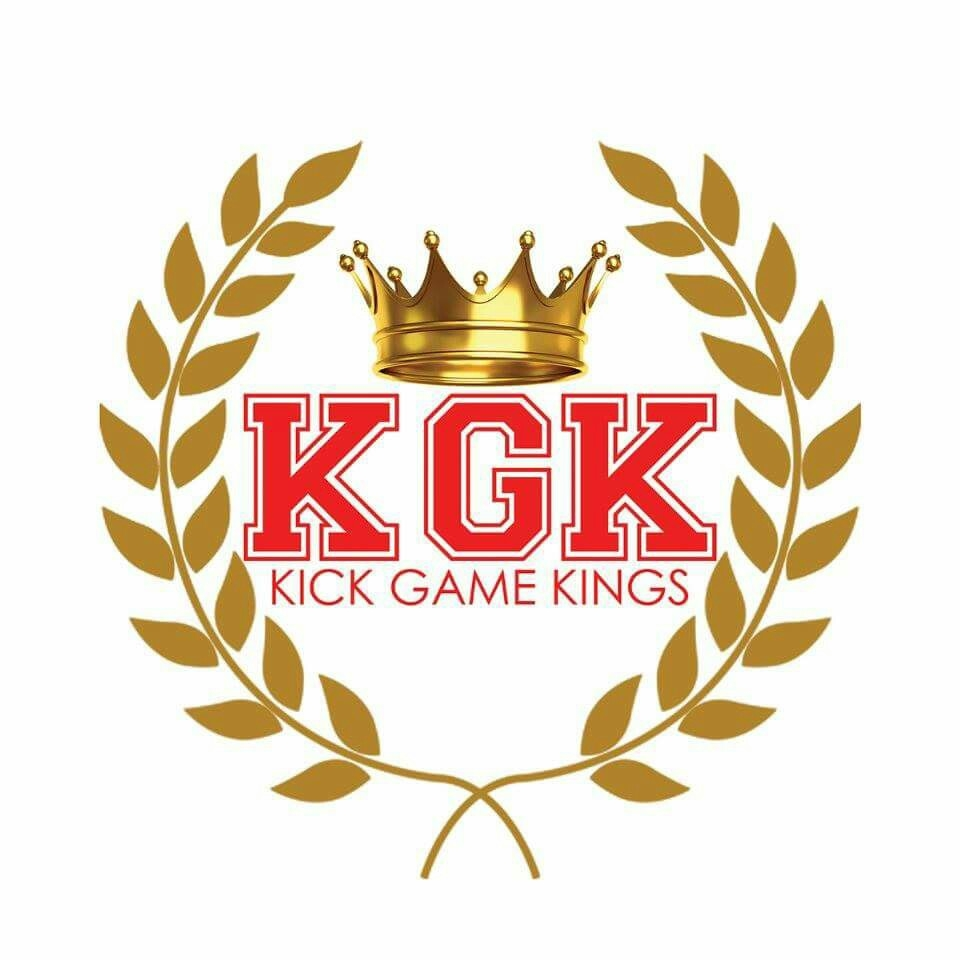
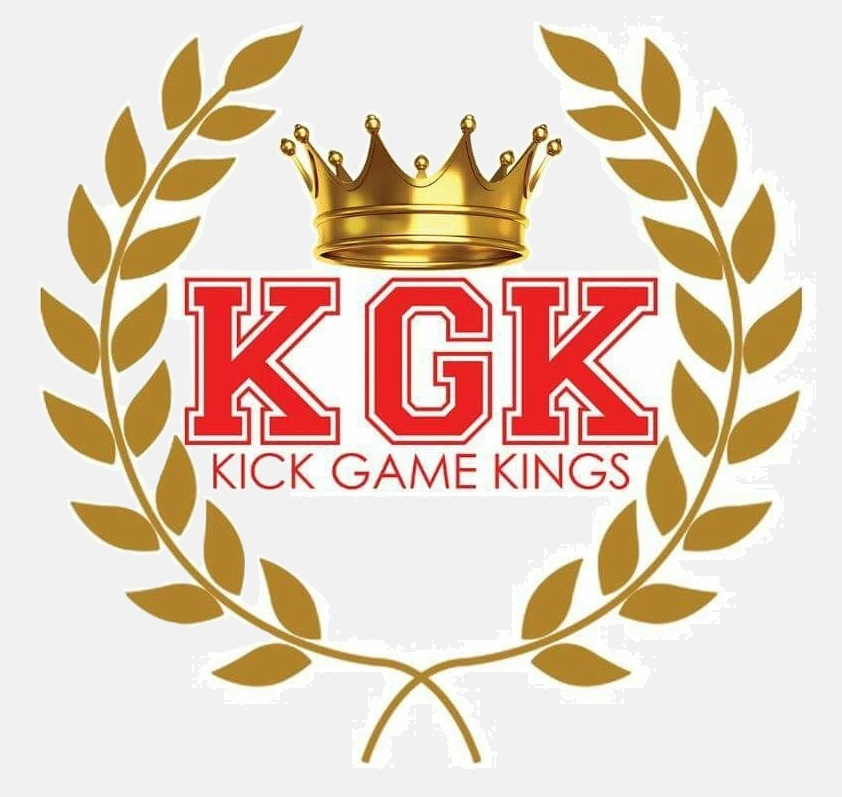
rac - playing with front page

diff --git a/KGKv2/src/index.html b/KGKv2/src/index.html
@@ -75,21 +75,26 @@
 
 
 <!-- main content -->
-<div class="w3-container textarea w3-tag w3-red w3-wide w3-navbar">
-    <h4> Welcome to <B>KickGameKings.com</B>: the premier shoe vendor in Louisville! </h4>
+<div class="w3-container textarea w3-tag w3-light-grey w3-wide">
+    <table>
+        <td><img style="width:100%;" src="img/KGKcrown.jpg"> </td>
+    <td><h4 class="mobile-hide"> Welcome to <B>KickGameKings.com</B>: the premier shoe vendor in Louisville! </h4></td>
+      <td><img style="width:100%;" src="img/KGKcrown.jpg"> </td>
+    </table>
 </div>
 
 <div class="w3-container textarea w3-wide">
     <div class="w3-left"><i>MAY 28th, 2016: </i></div><div class="w3-right"><button class="w3-red w3-round" id="post2btn" onclick="viewtoggle('post2','post2btn')">hide post</button></div>
     <div id="post2" class="w3-container" style="display: block">
         <br/>
-        KICK GAME KINGS IS IN THE BUILDING AGAIN!
+        <br/>
+        KICK GAME KINGS IS IN THE BUILDING AGAIN! @:
         <br/>
         <a href="http://www.htowngotsole.com/">H-TOWN GOT SOLE!</a>
         <p>Golden Gate Banquet Hall</p>
         <p>1960 Road West</p>
         <p>Houston, TX 77069</p>
-        <img class="gallery_image" src="img/getSole.jpg">
+        <a href="http://www.htowngotsole.com/"><img class="gallery_image" src="img/getSole.jpg"></a>
         <p>If you're in the Houston, TX area, come in and see us. If you appreciate quality style and rare kicks, you don't want to miss our table at this show!</p>
     </div>
 </div>
@@ -97,6 +102,7 @@
 <div class="w3-container textarea w3-wide">
     <div class="w3-left"><i>MAY 21st, 2016: </i></div><div class="w3-right"><button class="w3-red w3-round" id="post1btn" onclick="viewtoggle('post1','post1btn')">show post</button></div>
     <div id="post1" class="w3-container" style="display: none">
+        <br/>
         <br/>
         KICK GAME KINGS IS IN THE BUILDING!
         <br/>

diff --git a/KGKv2/dist/index.html b/KGKv2/dist/index.html
@@ -75,21 +75,22 @@
 
 
 <!-- main content -->
-<div class="w3-container textarea w3-tag w3-red w3-wide w3-navbar">
-    <h4> Welcome to <B>KickGameKings.com</B>: the premier shoe vendor in Louisville! </h4>
+<div class="w3-container textarea w3-tag w3-light-grey w3-wide">
+    <h4 class="mobile-hide"> Welcome to <B>KickGameKings.com</B>: the premier shoe vendor in Louisville! </h4>
 </div>
 
 <div class="w3-container textarea w3-wide">
     <div class="w3-left"><i>MAY 28th, 2016: </i></div><div class="w3-right"><button class="w3-red w3-round" id="post2btn" onclick="viewtoggle('post2','post2btn')">hide post</button></div>
     <div id="post2" class="w3-container" style="display: block">
         <br/>
-        KICK GAME KINGS IS IN THE BUILDING AGAIN!
+        <br/>
+        KICK GAME KINGS IS IN THE BUILDING AGAIN! @:
         <br/>
         <a href="http://www.htowngotsole.com/">H-TOWN GOT SOLE!</a>
         <p>Golden Gate Banquet Hall</p>
         <p>1960 Road West</p>
         <p>Houston, TX 77069</p>
-        <img class="gallery_image" src="img/getSole.jpg">
+        <a href="http://www.htowngotsole.com/"><img class="gallery_image" src="img/getSole.jpg"></a>
         <p>If you're in the Houston, TX area, come in and see us. If you appreciate quality style and rare kicks, you don't want to miss our table at this show!</p>
     </div>
 </div>
@@ -97,6 +98,7 @@
 <div class="w3-container textarea w3-wide">
     <div class="w3-left"><i>MAY 21st, 2016: </i></div><div class="w3-right"><button class="w3-red w3-round" id="post1btn" onclick="viewtoggle('post1','post1btn')">show post</button></div>
     <div id="post1" class="w3-container" style="display: none">
+        <br/>
         <br/>
         KICK GAME KINGS IS IN THE BUILDING!
         <br/>

diff --git a/KGKv2/dist/contact.html b/KGKv2/dist/contact.html
@@ -84,7 +84,10 @@
 <div style="padding-top: 20px; padding-bottom: 20px;" class="w3-container w3-center">
     <img src="img/instagram/jpg/betabannernew.jpg" class="w3-round banner" alt="KGK">
 </div>
-
+<br/>
+<br/>
+<br/>
+<br/>
 
 <!-- header -->
 <div class="w3-top w3-container header w3-black w3-center w3-text-white">

diff --git a/KGKv2/src/contact.html b/KGKv2/src/contact.html
@@ -84,7 +84,10 @@
 <div style="padding-top: 20px; padding-bottom: 20px;" class="w3-container w3-center">
     <img src="img/instagram/jpg/betabannernew.jpg" class="w3-round banner" alt="KGK">
 </div>
-
+<br/>
+<br/>
+<br/>
+<br/>
 
 <!-- header -->
 <div class="w3-top w3-container header w3-black w3-center w3-text-white">

diff --git a/KGKv2/dist/css/main.css b/KGKv2/dist/css/main.css
@@ -178,6 +178,9 @@ body {
         //display: none !important;
         font-size: x-small;
     }
+    h4.mobile-hide{
+        font-size: x-small;
+    }
 }
 
 

diff --git a/KGKv2/src/css/main.css b/KGKv2/src/css/main.css
@@ -171,6 +171,9 @@ body {
         //display: none !important;
         font-size: x-small;
     }
+    h4.mobile-hide{
+        font-size: x-small;
+    }
 }
 
 
